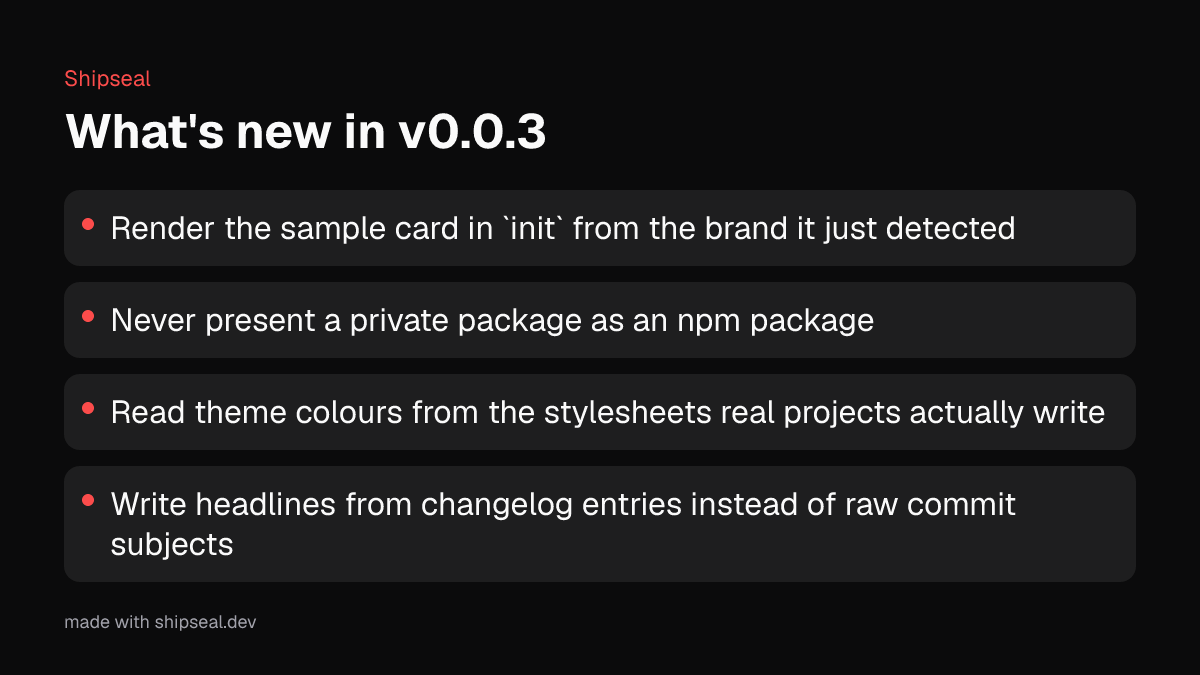
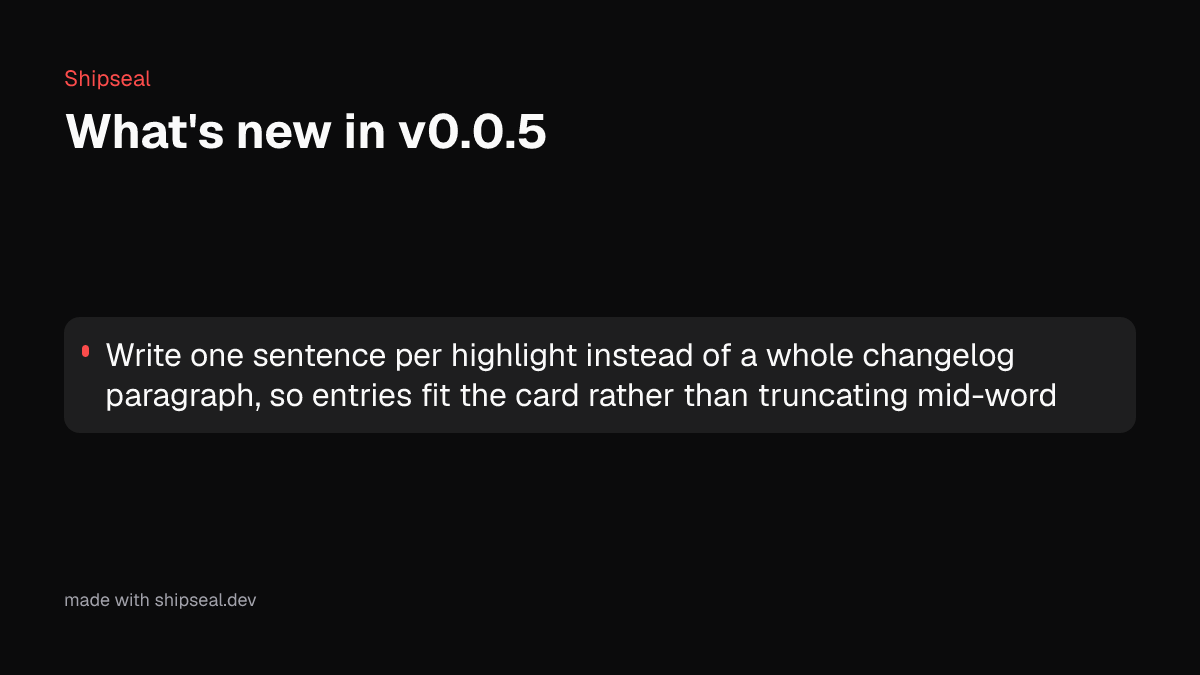
feat: regenerate showcase images as part of pnpm release
Add scripts/refresh-showcase.mjs to render the README cards and og.png
with Shipseal, and sync the version strings in README.md. pnpm release
blocks when they change, so the images cannot drift behind a release.

Fill the highlights card when a release has one or two entries.

diff --git a/packages/shipseal/test/generate.test.ts b/packages/shipseal/test/generate.test.ts
@@ -116,3 +116,31 @@ describe("generate", () => {
     });
   });
 });
+
+describe("highlights card with few entries", () => {
+  // A release with one changeset left most of the card empty, which reads as a broken render
+  // rather than a small release. Caught when README images were automated.
+  it("centres a short list and top-aligns a long one", async () => {
+    const { releaseHighlights } = await import("../src/templates/release-highlights.js");
+    const { FORMATS } = await import("../src/formats.js");
+    const build = (n: number) =>
+      releaseHighlights.render(
+        {
+          name: "Demo",
+          version: "1.0.0",
+          highlights: Array.from({ length: n }, (_, i) => `Highlight number ${i + 1}`),
+          headingFamily: "Geist",
+          headingWeight: 700,
+          bodyFamily: "Geist",
+          bodyWeight: 400,
+          radius: 16,
+        } as never,
+        { format: FORMATS.x, theme: "dark", brand: FIXTURE_BRAND, fitted: {} } as never,
+      );
+    const short = JSON.stringify(build(1));
+    const long = JSON.stringify(build(4));
+    expect(short).toContain('"justifyContent":"center"');
+    expect(long).toContain('"justifyContent":"flex-start"');
+    expect(short).toContain('"flexGrow":1');
+  });
+});

diff --git a/packages/shipseal/src/templates/release-highlights.tsx b/packages/shipseal/src/templates/release-highlights.tsx
@@ -111,7 +111,20 @@ export const releaseHighlights: TemplateDefinition = {
             {title}
           </div>
         </div>
-        <div style={{ display: "flex", flexDirection: "column", gap: 16 }}>
+        {/*
+          Grow the list to fill the card and centre it. A release with one or two highlights
+          used to leave most of the card empty, which reads as a broken render rather than a
+          small release.
+        */}
+        <div
+          style={{
+            display: "flex",
+            flexDirection: "column",
+            flexGrow: 1,
+            justifyContent: props.highlights.length > 2 ? "flex-start" : "center",
+            gap: props.highlights.length > 2 ? 16 : 20,
+          }}
+        >
           {props.highlights.map((line, index) => {
             const fitted = ctx.fitted[`highlight-${String(index)}`];
             const breaking = line.startsWith("Breaking:");

diff --git a/README.md b/README.md
@@ -17,7 +17,7 @@ Shipseal turns your repo's releases, milestones, and benchmarks into ready-to-po
 
 ## What it produces
 
-Every image below was generated by Shipseal for its own `v0.0.3` release, by the workflow in
+Every image below was generated by Shipseal for its own `v0.0.5` release, by the workflow in
 this repository. Nothing was edited by hand.
 
 <p align="center">
@@ -42,7 +42,7 @@ Code cards pull a snippet from your README or a file you point at, highlighted w
 rendered without a browser.
 
 The same release also produced GitHub social, X, and LinkedIn sizes, plus a highlights card.
-See the [v0.0.3 release](https://github.com/akii09/shipseal/releases/tag/v0.0.3) for the whole
+See the [v0.0.5 release](https://github.com/akii09/shipseal/releases/tag/v0.0.5) for the whole
 pack, attached automatically by the Action.
 
 ## Why

diff --git a/.changeset/olive-crabs-smile.md b/.changeset/olive-crabs-smile.md
@@ -1,0 +1,7 @@
+---
+"shipseal": patch
+---
+
+Fill the highlights card when a release has only one or two entries. The list now grows to the
+available height and centres itself, instead of leaving most of the card empty, which read as a
+broken render rather than a small release.
